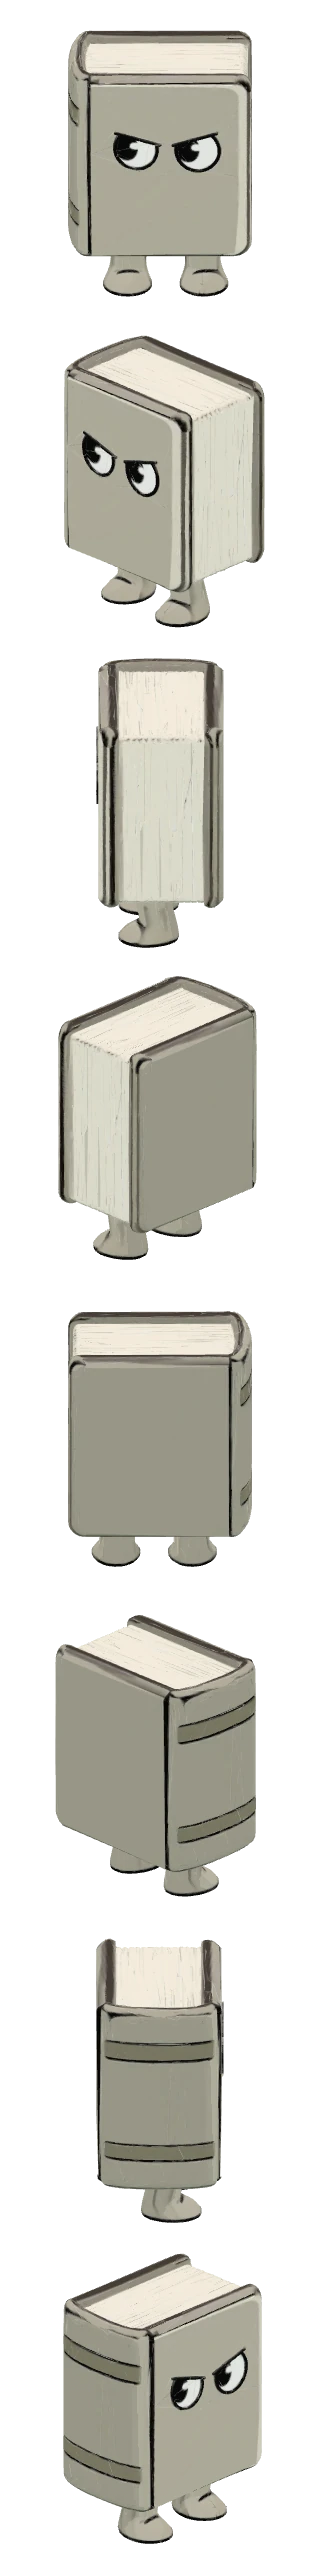
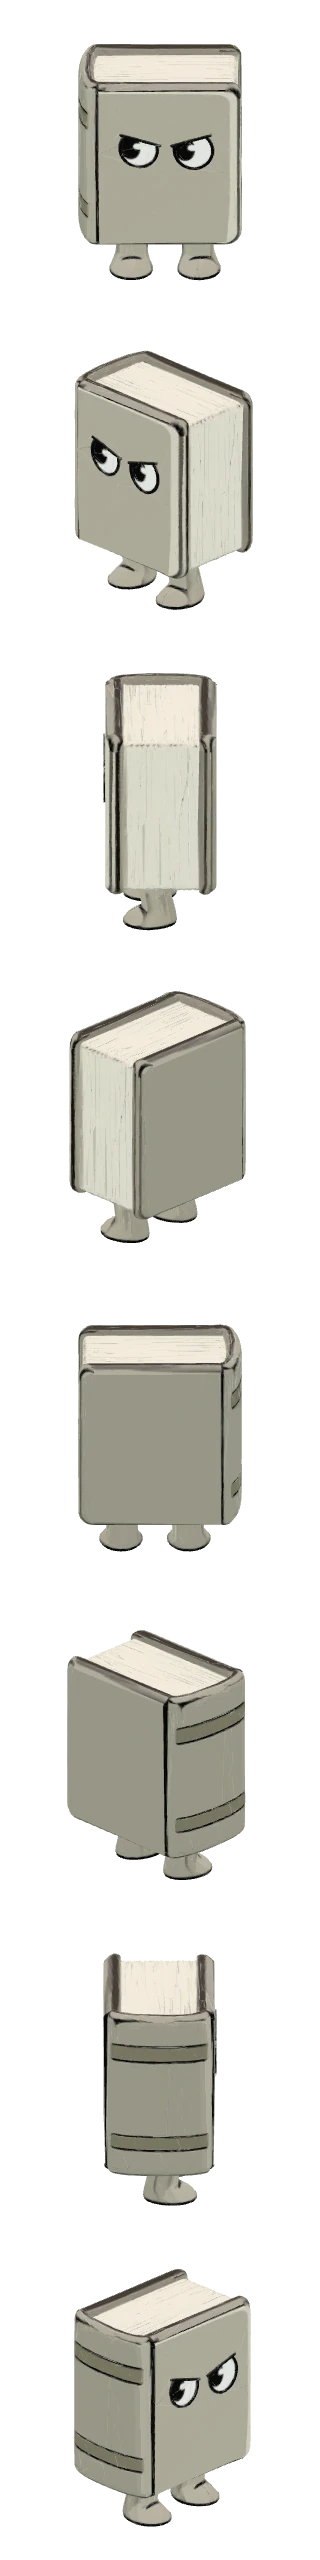
Attack animations for every friend and creep (build 113)
Every friend now attacks in the four-beat lunge with a swoosh, inside the
same 0.42 s. All 11 creeps have shove frames rendered from their models;
their hit lands on the lunge 0.2 s after contact and a stun cancels it.
render_restyle.sh renders the shove frames with each creep.

Claude-Session: https://claude.ai/code/session_01EFREJBX8jm5rRQPAyJTUcN

Changed region(s): [[0.1562, 0.0, 0.8438, 1.0]]

diff --git a/defender/index.html b/defender/index.html
@@ -656,7 +656,7 @@
     <div class="wallet"><span class="pill coins">🪙 <span class="coinsN">0</span></span><span class="pill gems">💎 <span class="gemsN">0</span></span><span class="pill tix">🎟 <span class="tixN">0</span></span></div>
     <h1 class="display"><small>Why, Dad?</small>Defender</h1>
     <p class="tag hand">No dodging. Only wondering.</p>
-    <div class="build">build 112</div>
+    <div class="build">build 113</div>
     <canvas id="titleParty" width="880" height="660"></canvas>
     <div class="corner-r"><button class="btn icon ghost" id="homeMissions" aria-label="Missions">📋<i class="dot" id="misDot2" hidden></i></button><button class="btn icon ghost" id="homeFoes" aria-label="Myth Spotter" hidden>🔎<i class="dot" id="foeDot" hidden></i></button><button class="btn icon ghost" id="homeHow" aria-label="How to play">❓</button><button class="btn icon ghost" id="homeSettings" aria-label="Settings">⚙</button></div>
     <button class="evpill" id="evBtn" hidden></button>
@@ -4014,10 +4014,10 @@ function drawPetGear(c, id, held) {
   const V = cweapOf(id); if (V && held != null && held < .7) { const [hx, hy] = A.hand, wind = held < .33 ? held / .33 : 1, fade = held > .4 ? 1 - (held - .4) / .3 : 1;
     c.save(); c.globalAlpha *= Math.max(0, fade); c.translate(hx, hy - 8 * wind); c.rotate(-.3 + wind * .2); c.font = `16px ${EMOJI_FONT}`; c.textAlign = 'center'; c.textBaseline = 'middle'; c.fillText(V.em, 0, 0); c.restore(); }
 }
-// Pilot (Dad and Webster): an attack in four beats inside the same 0.42 s, so nothing about timing or damage changes.
+// Every friend's attack, in four beats inside the same 0.42 s, so nothing about timing or damage changes.
 // pull back (0-.30) -> strike (.30-.42) -> follow through (.42-.60) -> recover (.60-1). Returns how far along the aim
 // to stand (px, negative = back), how hard to squash or stretch, and the lean.
-const ATK_PILOT = new Set(['dad', 'webster']);
+const atkReach = id => id === 'webster' ? 22 : 18;
 function atkBeat(p, reach) { const e = x => x * x * (3 - 2 * x), o = x => 1 - (1 - x) * (1 - x);
   if (p < .30) { const u = e(p / .30); return { d: -reach * .45 * u, sq: u * .9, st: 0, lean: -.26 * u }; }
   if (p < .42) { const u = o((p - .30) / .12); return { d: -reach * .45 + reach * 1.45 * u, sq: 0, st: u * 1.1, lean: -.26 + .5 * u }; }
@@ -4033,7 +4033,7 @@ function drawMember(m) {
     const lean = a ? (p < .33 ? -.14 * (p / .33) : .12 * (1 - Math.min(1, (p - .33) / .67)) - .02) * m.face : 0;
     // a step back on the wind-up, a step into the throw, then back to the spot
     const step = a ? (p < .33 ? -6 * (p / .33) : 10 * (1 - Math.min(1, (p - .33) / .67))) * m.face : 0, hop = a && p > .33 ? Math.sin(Math.min(1, (p - .33) / .4) * Math.PI) * 6 : 0;
-    const B = a && ATK_PILOT.has('dad') ? atkBeat(p, 16) : null, ang = m.aim != null ? m.aim : (m.face > 0 ? 0 : Math.PI); if (B && p >= .30) atkSmear(m, ang, 16);
+    const B = a ? atkBeat(p, 16) : null, ang = m.aim != null ? m.aim : (m.face > 0 ? 0 : Math.PI); if (B && p >= .30) atkSmear(m, ang, 16);
     const pose = dadPose(m), P = DPOSE[pose], img = art('bdad_' + pose), alpha = G.flash > 0 && !save.opt.calm && Math.floor(G.flash * 20) % 2 ? .5 : 1;
     if (R3D && R3D.has('dad')) { // the live 3D Dad (?r3d): idle, a spell-cast point on a cast, ouch when bumped, a cheer once the stage is won
       const anim = pose === 'ouch' ? 'ouch' : G.cleared ? 'cheer' : a ? 'cast' : 'idle', fx = m.x + step * .6, fy = m.y + 30 - hop * .5, h = DAD_DRAW;
@@ -4065,7 +4065,7 @@ function drawMember(m) {
   if (m.land > 0) m.land -= 1 / 60;
   const cheer = m.cheer > 0 ? Math.sin((1 - m.cheer / .5) * Math.PI) * 9 : 0; if (m.cheer > 0) m.cheer -= 1 / 60;
   const step = a ? (p < .33 ? -5 * (p / .33) : 12 * (1 - Math.min(1, (p - .33) / .67))) * m.face : 0, hop = a && p > .33 ? Math.sin(Math.min(1, (p - .33) / .4) * Math.PI) * 8 : 0;
-  const B = a && ATK_PILOT.has(m.id) ? atkBeat(p, 22) : null, ang = m.aim != null ? m.aim : (m.face > 0 ? 0 : Math.PI); if (B && p >= .30) atkSmear(m, ang, 22);
+  const B = a ? atkBeat(p, atkReach(m.id)) : null, ang = m.aim != null ? m.aim : (m.face > 0 ? 0 : Math.PI); if (B && p >= .30) atkSmear(m, ang, atkReach(m.id));
   const px = B ? m.x + Math.cos(ang) * B.d : m.x + step, py = B ? m.y + 4 - z - cheer + Math.sin(ang) * B.d * .6 : m.y + 4 - z - hop - cheer;
   m.drawn = { x: px, y: py };
   const atk = atkPose(m), pop = atk && a && p > .2 ? Math.max(0, 1 - (p - .2) / .12) : 0; // a little squash the moment it snaps into the attack drawing

diff --git a/defender/sw.js b/defender/sw.js
@@ -1,6 +1,6 @@
 // Why, Dad? Defender: offline first. Everything the game needs is cached on first visit,
 // so it opens with no signal. Bump CACHE when the build changes.
-const CACHE = 'whydad-defender-b112';
+const CACHE = 'whydad-defender-b113';
 const CORE = [
   './',
   './index.html',
@@ -321,15 +321,25 @@ const LATER = [
   './assets/3d/boss_triangle_idle.webp',
   './assets/3d/boss_wall_idle.webp',
   './assets/3d/chroma_idle.webp',
+  './assets/3d/creep_dasher_bump.webp',
   './assets/3d/creep_dasher_idle.webp',
+  './assets/3d/creep_fast_bump.webp',
   './assets/3d/creep_fast_idle.webp',
+  './assets/3d/creep_flyer_bump.webp',
   './assets/3d/creep_flyer_idle.webp',
+  './assets/3d/creep_gossip_bump.webp',
   './assets/3d/creep_gossip_idle.webp',
+  './assets/3d/creep_hardcover_bump.webp',
   './assets/3d/creep_hardcover_idle.webp',
+  './assets/3d/creep_healer_bump.webp',
   './assets/3d/creep_healer_idle.webp',
+  './assets/3d/creep_normal_bump.webp',
   './assets/3d/creep_normal_idle.webp',
+  './assets/3d/creep_rumour_bump.webp',
   './assets/3d/creep_rumour_idle.webp',
+  './assets/3d/creep_splitter_bump.webp',
   './assets/3d/creep_splitter_idle.webp',
+  './assets/3d/creep_swarm_bump.webp',
   './assets/3d/creep_swarm_idle.webp',
   './assets/3d/creep_tank_bump.webp',
   './assets/3d/creep_tank_idle.webp',
